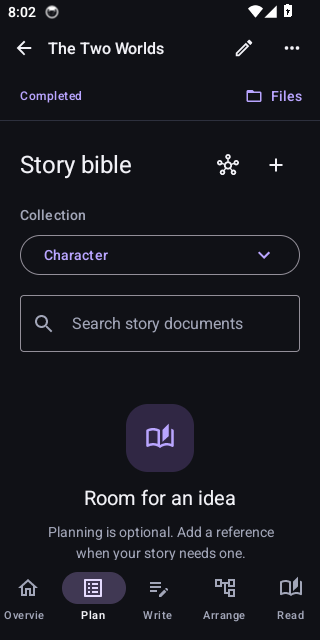
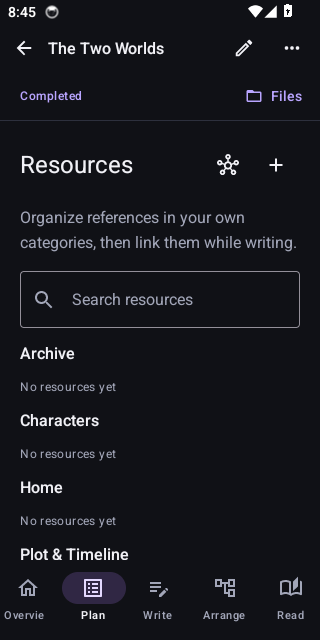
docs: checkpoint verified resource workflow and v0.5.1 delivery [skip ci]

diff --git a/README.md b/README.md
@@ -1,6 +1,6 @@
 # NovelForge — local Android writing workspace
 
-NovelForge 0.5 combines a flexible folder workspace with Overview, Plan, Write, Arrange and Read views. Markdown documents and linked story references remain local; manuscript order is independent from folder organization. Built with Kotlin, Jetpack Compose and Room. The redesigned interface uses compact sans-serif typography, charcoal/violet and light themes, geometric covers and short transitions.
+NovelForge 0.5.1 combines a flexible folder workspace with Overview, Plan, Write, Arrange and Read views. Markdown documents and linked story references remain local; manuscript order is independent from folder organization. Built with Kotlin, Jetpack Compose and Room. The redesigned interface uses compact sans-serif typography, charcoal/violet and light themes, geometric covers and short transitions.
 
 ## Screens
 
@@ -43,6 +43,8 @@ A domain-based modular monolith with Clean Architecture boundaries, Hilt depende
 - **Analytics:** writing streak above the workspace dropdown. All workspaces shows portfolio totals by status; one workspace shows manuscript progress, chapter states and story-bible statistics. Both include words, estimated pages, chapters, character profiles and daily activity.
 - **Settings:** a category index leading to separate Appearance, Editor, Reading, Data & backup, Recently deleted and About screens.
 - **Workspace setup:** Standard structure or Build from scratch. Standard creates eight beginner-friendly folders, editable README guides and two blank starter chapters; scratch starts empty. Customize future starter folders in Settings → Writing → Workspace structure.
+- **Resources:** Plan groups references by real workspace folders. Its single + creates a resource in an existing or new category. Scratch has no preset taxonomy. External sources retain a URL and notes locally. Existing root files remain accessible as Uncategorized.
+- **Synopsis:** Overview displays the story summary with a dedicated edit action and configurable word limit; Recent documents has been removed.
 - **Workspace:** five focused views for the novel overview, story collections, drafts, manuscript arrangement and reading. The same file explorer is available throughout.
 - **Manuscript:** reorder chapters independently of folders; unplace a chapter without deleting its document; reading, Markdown export and manuscript statistics follow inclusion.
 - **Explorer:** compact flat rows, separate expand/select controls, search, expand/collapse all, active-file reveal, rename, move, sibling ordering, drag-to-folder and recoverable subtree deletion. The editor drawer includes create actions and an explicit close button.
@@ -56,9 +58,9 @@ The explorer is a logical tree in the local database, not an external Markdown v
 
 ## Verification and installation
 
-The 0.5 build at source `5c7119897a260126ec3433b8b4cc5a41b419a11f` passes compilation, architecture boundaries, 27 JVM tests, six Android API 34 device tests, and lint (0 errors, 14 warnings). [CI run 39921422025](https://github.com/iAdityaD/NovelForge/actions/runs/39921422025) retains the APK, reports and screenshots. Tests include migration from schema v3, stable overview identity, independent manuscript ordering, unplacing/re-inclusion, backup remapping, standard/scratch creation, and existing editing flows.
+The 0.5.1 build at source `87f20877e4d8d996fd538f7307e52200d7585bd6` passes compilation, architecture boundaries, 28 JVM tests, six API 34 Android device tests and lint. [CI run 39926424532](https://github.com/iAdityaD/NovelForge/actions/runs/39926424532) retains the APK, reports and screenshots. New tests cover scratch resource categories, atomic rejection, category rename/delete/restore, external source backup compatibility and synopsis editing.
 
[2 lines of base64/hex data omitted]
 
 **Before replacing an older development build, export each workspace backup outside app storage.** CI debug signing keys can differ between builds. If Android rejects the update because of its signature, only uninstall after securing your backups; install the new APK and restore them. Uninstalling deletes app-local data. Production distribution still requires a stable private signing key.
 

diff --git a/PROGRESS.md b/PROGRESS.md
@@ -189,3 +189,10 @@ Every stage is committed to main as requested. Build verification and limitation
 - Overview replaces Recent documents with a read-only synopsis and dedicated bounded editor respecting Settings content limits. Write creation only offers manuscript types.
 - Consume Scaffold insets before the nested workspace navigation bar to avoid duplicate bottom-system padding.
 - Added repository regression and device coverage. CI pending. No schema migration or unrelated rewrite required.
+
+
+## 0.5.1 verified delivery
+- Source `87f20877e4d8d996fd538f7307e52200d7585bd6`; CI `39926424532`: build and device jobs successful. 28 JVM tests / 6 API 34 tests, no failures or skips. Compilation, architecture checks and lint passed.
+- APK signature verified, versionCode 6 / versionName 0.5.1 / minSDK 26. Packaged NovelForge-v0.5.1-Android.zip.
+- Inspected Plan and Arrange device captures for resource layout and consumed bottom insets. Physical-device review remains outside emulator verification.
+- No automatic relocation of old files, schema rewrite, or downloaded web content. Categories are logical folders; source links and notes use canonical documents. Future full-roadmap stages remain in WORKSPACE_UPGRADE_PLAN.md.
